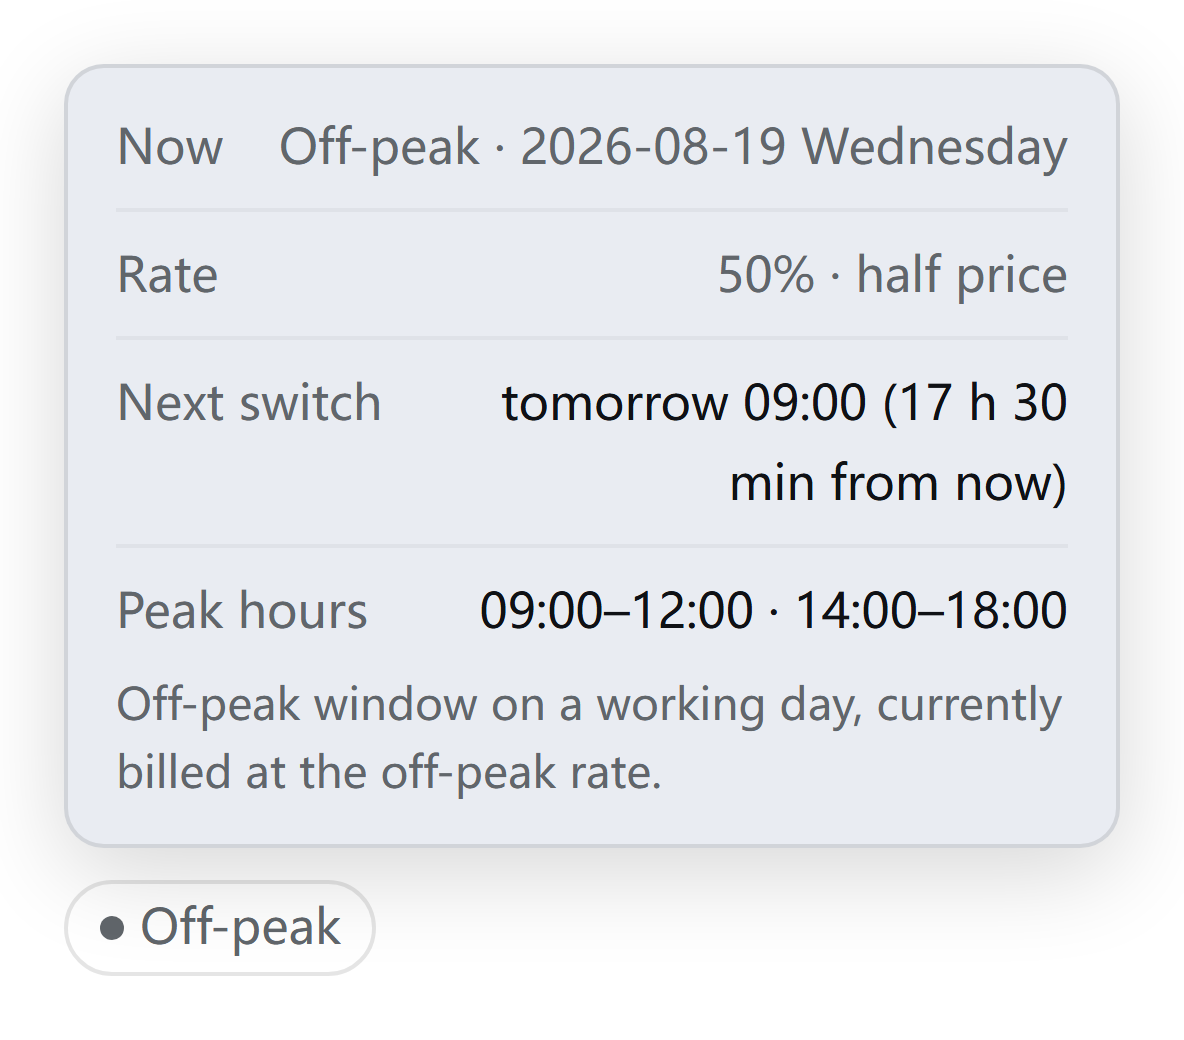
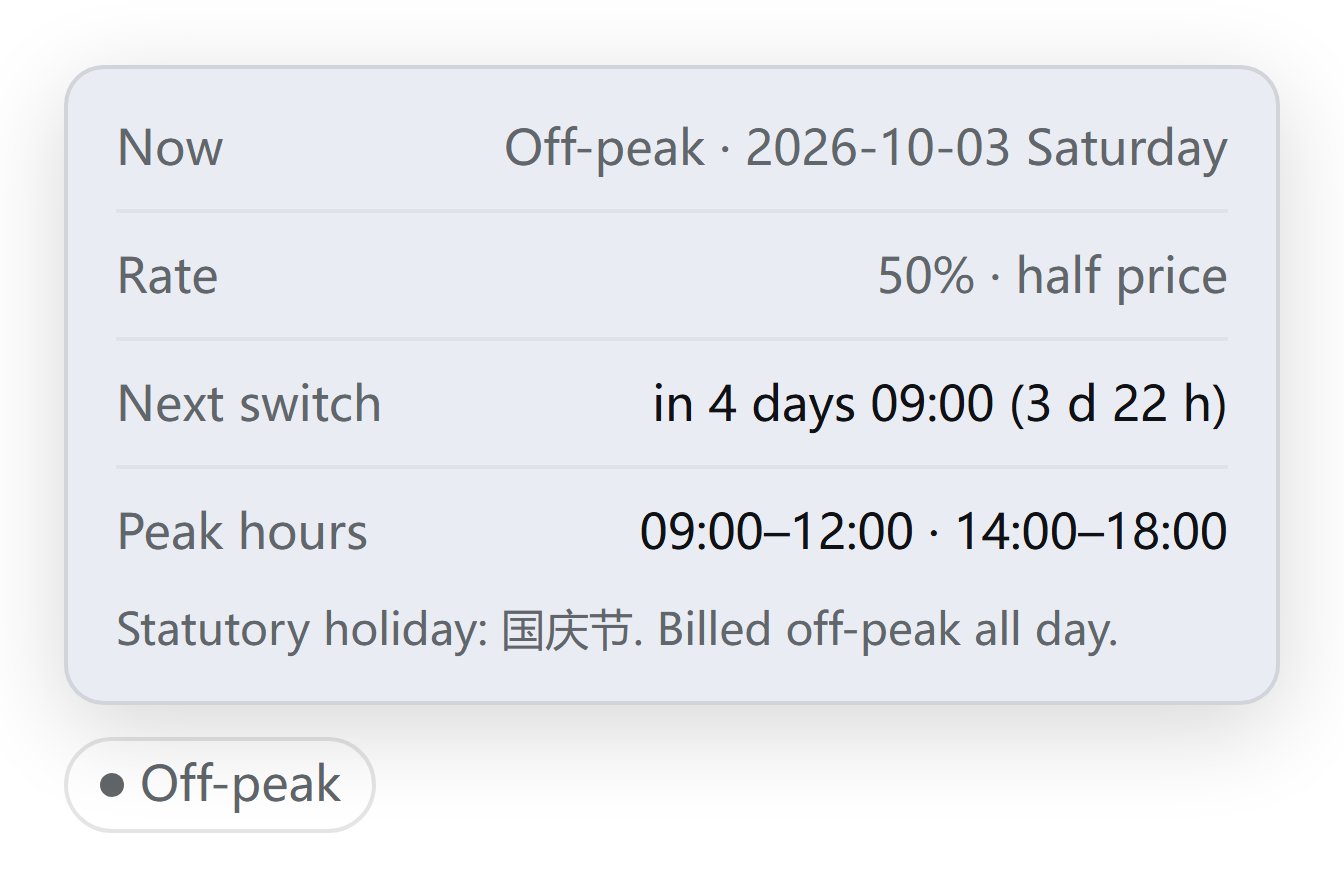
Keep the 下次切换 row on one line, and show the shots larger
The card's 下次切换 row wrapped onto two lines during 国庆节, when the gap to
the next peak runs to several days: `4 天后 09:00（94 小时 19 分钟后）` is wider
than the 264px card. The `）` ended up alone on the second line, which reads as
a broken layout rather than a long value.

Three changes, all aimed at that one row:

- `formatGap` switches to days past 24 hours (`3 天 22 小时`) and drops the
  minutes once days are on screen. Past a day the exact minute is noise on a
  card that already prints the absolute switch time.
- The trailing `后` / ` from now` is gone from the parenthetical; the unit
  already reads as a countdown.
- The card is 304px wide, and `.peak-badge-value` is `white-space: nowrap`, so
  a row can no longer break silently.

`demo/shoot.mjs` now measures every card row before it writes the PNG and exits
with an error if a row overflows or wraps. A wrapped row is invisible in the
image itself (the card just gets taller), so this cannot be checked by eye.

The off-peak shot is deliberately the widest case the card can print, so the
README shows the row that used to break. Display widths in the README went up
with the card: 300px chips, 320px cards. verify-policy.mjs is at 92 cases, and
the FLOOR tripwire moved with it.

diff --git a/client.js b/client.js
@@ -346,6 +346,15 @@ window.__ModuleLoader__.load({
     // at 6px a superellipse keeps visibly flat sides — the dot renders as a rounded
     // SQUARE, not a circle. Rendering both variants at 10x under Edge confirmed it;
     // engines without `corner-shape` ignore the declaration, so it costs nothing.
+    //
+    // The card is 304px wide rather than the 264px it started at, because the
+    // `下次切换` value has to stay on one line. Its longest form is
+    // `N 天后 09:00（M 天 N 小时）`: about 200px at 12px, plus the `下次切换` label
+    // (48px) and the 10px flex gap. At 264px that row wrapped, leaving a lone `）`
+    // on a second line, which reads as a broken layout rather than a long value.
+    // `verify-policy.mjs` guards the format; `demo/shoot.mjs` measures the row and
+    // refuses to write a screenshot when a row overflows, since a wrapped row is
+    // invisible in the PNG itself.
     const CSS = `
 .peak-badge-root { position: relative; display: inline-flex; }
 .peak-badge-chip {
@@ -364,7 +373,7 @@ window.__ModuleLoader__.load({
 .peak-badge-dot { width: 6px; height: 6px; border-radius: 50%; corner-shape: round; background: currentColor; flex: none; }
 .peak-badge-card {
   position: absolute; bottom: calc(100% + 8px); left: 0; z-index: 40;
-  width: 264px; box-sizing: border-box; padding: 10px 12px;
+  width: 304px; box-sizing: border-box; padding: 10px 12px;
   display: flex; flex-direction: column; gap: 6px;
   color: var(--dsw-alias-label-primary);
   background: var(--dsw-alias-bg-overlay);
@@ -375,7 +384,10 @@ window.__ModuleLoader__.load({
 .peak-badge-row { display: flex; align-items: baseline; justify-content: space-between; gap: 10px; font-size: 12px; }
 .peak-badge-row + .peak-badge-row { border-top: 1px solid var(--dsw-alias-border-l1); padding-top: 6px; }
 .peak-badge-key { color: var(--dsw-alias-label-secondary); flex: none; }
-.peak-badge-value { text-align: right; }
+/* A row is one line by contract: every value here is a short fact (a date, a
+   rate, a window), and the card is sized for the longest of them. Letting one
+   wrap puts an orphaned word on a second line and the row reads as a mistake. */
+.peak-badge-value { text-align: right; white-space: nowrap; }
 .peak-badge-value[data-tone="peak"] { color: var(--dsw-alias-state-warn-primary); }
 .peak-badge-value[data-tone="off"] { color: var(--dsw-alias-label-secondary); }
 .peak-badge-foot { font-size: 11px; line-height: 1.5; color: var(--dsw-alias-label-secondary); }
@@ -427,11 +439,11 @@ window.__ModuleLoader__.load({
       clockError: '无法读取本机时钟。',
       hour: '小时',
       minute: '分钟',
+      day: '天',
       today: '今天',
       tomorrow: '明天',
       dayAfter: '后天',
       daysAfter: '天后',
-      after: '后',
       weekday: ['周日', '周一', '周二', '周三', '周四', '周五', '周六'],
       rateStandard: '标准价',
       rateOffPeak: '5 折 · 半价',
@@ -450,11 +462,11 @@ window.__ModuleLoader__.load({
       clockError: 'The local clock could not be read.',
       hour: 'h',
       minute: 'min',
+      day: 'd',
       today: 'today',
       tomorrow: 'tomorrow',
       dayAfter: 'in 2 days',
       daysAfter: 'days from now',
-      after: ' from now',
       weekday: ['Sunday', 'Monday', 'Tuesday', 'Wednesday', 'Thursday', 'Friday', 'Saturday'],
       rateStandard: 'standard rate',
       rateOffPeak: '50% · half price',
@@ -525,13 +537,25 @@ window.__ModuleLoader__.load({
 
     const text = Object.assign({}, TEXT_ZH);
 
-    /** A minute count as `X 小时 Y 分钟` / `Y 分钟`. */
+    /**
+     * A minute count as `X 天 Y 小时` / `X 小时 Y 分钟` / `Y 分钟`.
+     *
+     * This is a size decision as much as a wording one. The `下次切换` row has to
+     * stay on one line: `94 小时 19 分钟` is both wide and harder to read than
+     * `3 天 22 小时`, and once the gap is a day or more the exact minute is noise
+     * on a card that already prints the absolute switch time.
+     */
     function formatGap(minutes) {
-      const hours = Math.floor(minutes / 60);
-      const rest = minutes % 60;
-      if (hours === 0) return `${rest} ${text.minute}`;
-      if (rest === 0) return `${hours} ${text.hour}`;
-      return `${hours} ${text.hour} ${rest} ${text.minute}`;
+      const total = Math.max(0, Math.ceil(minutes));
+      const days = Math.floor(total / 1440);
+      const hours = Math.floor((total % 1440) / 60);
+      const rest = total % 60;
+      const unit = (count, label) => `${count} ${label}`;
+      const parts = [];
+      if (days > 0) parts.push(unit(days, text.day));
+      if (hours > 0 || days > 0) parts.push(unit(hours, text.hour));
+      if (days === 0) parts.push(unit(rest, text.minute));
+      return parts.join(' ');
     }
 
     /** How many Beijing days ahead a peak window is, in words. */
@@ -652,8 +676,8 @@ window.__ModuleLoader__.load({
       const nextText = state.next === undefined
         ? (status === 'off' ? text.beyondHorizon : text.pending)
          : i18n.lang === 'en'
-          ? `${dayOffsetLabel(state.next.inDays)} ${state.next.at} (${formatGap(state.next.leftMinutes)}${text.after})`
-          : `${dayOffsetLabel(state.next.inDays)} ${state.next.at}（${formatGap(state.next.leftMinutes)}${text.after}）`;
+          ? `${dayOffsetLabel(state.next.inDays)} ${state.next.at} (${formatGap(state.next.leftMinutes)})`
+          : `${dayOffsetLabel(state.next.inDays)} ${state.next.at}（${formatGap(state.next.leftMinutes)}）`;
 
       return h('div', {
         className: 'peak-badge-root',

diff --git a/demo/index.html b/demo/index.html
@@ -168,16 +168,19 @@
     },
   }[en ? 'en' : 'zh'];
 
-  // 2026-08-19 is a Wednesday; 10:00 Beijing is peak, 15:30 is off-peak.
+  // 2026-08-19 is a Wednesday; 10:00 Beijing is peak, 15:30 is off-peak. The
+  // off-peak shot is deliberately the widest case the card can print: a
+  // 4-day gap during 国庆节, which is what used to wrap `下次切换` onto two
+  // lines. If the shot shows one line, that is the fix holding.
   const SAMPLE = peak
     ? { label: COPY.peak, status: 'peak', dateText: '2026-08-19', weekday: 3,
         rate: COPY.rateStandard,
-        next: en ? 'tomorrow 09:00 (17 h 30 min from now)' : '明天 09:00（17 小时 30 分钟后）',
+        next: en ? 'tomorrow 09:00 (17 h 30 min)' : '明天 09:00（17 小时 30 分钟）',
         reason: COPY.peakReason }
-    : { label: COPY.off, status: 'off', dateText: '2026-08-19', weekday: 3,
+    : { label: COPY.off, status: 'off', dateText: '2026-10-03', weekday: 6,
         rate: COPY.rateOffPeak,
-        next: en ? 'tomorrow 09:00 (17 h 30 min from now)' : '明天 09:00（17 小时 30 分钟后）',
-        reason: COPY.offReason };
+        next: en ? 'in 4 days 09:00 (3 d 22 h)' : '4 天后 09:00（3 天 22 小时）',
+        reason: en ? 'Statutory holiday: 国庆节. Billed off-peak all day.' : '法定节假日：国庆节，全天按空闲时段计价。' };
 
   const el = (tag, props, ...children) => {
     const node = document.createElement(tag);

diff --git a/README.md b/README.md
@@ -13,13 +13,14 @@
 
 | 空闲（默认） | 高峰 | 深色主题 |
 |---|---|---|
-| <img src="docs/chip.png" width="168" alt="空闲"> | <img src="docs/chip-peak.png" width="168" alt="高峰"> | <img src="docs/chip-dark.png" width="168" alt="深色"> |
+| <img src="docs/chip.png" width="300" alt="空闲"> | <img src="docs/chip-peak.png" width="300" alt="高峰"> | <img src="docs/chip-dark.png" width="300" alt="深色"> |
 
-点开的卡片，三个变体：中文空闲、中文高峰、英文空闲：
+点开的卡片，三个变体：中文空闲、中文高峰、英文空闲。中文空闲那张是**故意挑的最长的一种**：
+国庆节里离下个高峰还有 4 天，`下次切换` 这一行是整张卡片能印出的最宽的值。
 
 | 中文 · 空闲 | 中文 · 高峰 | English · off-peak |
 |---|---|---|
-| <img src="docs/card-off.png" width="290" alt="卡片：中文空闲"> | <img src="docs/card-peak.png" width="290" alt="卡片：中文高峰"> | <img src="docs/card-en.png" width="290" alt="卡片：英文"> |
+| <img src="docs/card-off.png" width="320" alt="卡片：中文空闲"> | <img src="docs/card-peak.png" width="320" alt="卡片：中文高峰"> | <img src="docs/card-en.png" width="320" alt="卡片：英文"> |
 
 ## 计费规则
 
@@ -115,12 +116,12 @@ TZ=Asia/Shanghai        node verify-policy.mjs
 TZ=Pacific/Kiritimati   node verify-policy.mjs
 ```
 
-四个时区都是 88 条全过。把 `peakState` 里的 `getUTC*` 换成 `get*`（一个很自然的
+四个时区都是 92 条全过。把 `peakState` 里的 `getUTC*` 换成 `get*`（一个很自然的
 「简化」），这套断言立刻挂。验证过，不是推测。
 
 退出码按本工作区的约定分三种：`0` 全过，`1` 有断言挂了（**代码错了**），
-`2` 根本没跑起来（与代码无关）。加了 `--dump` 会把抠出来的那段代码打出来。
-最后还压了一条底线：跑过的条数少于预期（现在是 88）也一样按 1 退出，
+`2` 根本没跑起来（与代码无关）。加了 `--dump` 会把抠出来的那段代码印出来。
+最后还压了一条底线：跑过的条数少于预期（现在是 92）也一样按 1 退出，
 否则「某个小节整段没跑」会打印成「0 passed, 0 failed」然后安安静静地返回 0。
 
 > 关于这套断言的可信度：写它的时候，我**手算的期望值错了六次，机器每次都对**。
@@ -205,7 +206,7 @@ TZ=Pacific/Kiritimati   node verify-policy.mjs
    会抛 `INACTIVE_EFFECT`，而卸载和销毁本来就是会撞车的。
    别改用全局 `setTimeout`：动态客户端包里它是会抛错的陷阱（`client.js:9-11` 记的就是
    这条），而且即使在这里能用，它也不跟页面生命周期绑定，卸载后会继续跑。同理，语言切换
-   靠的是 `locale.subscribe`（`client.js:588-606`），不是重新加载。
+   靠的是 `locale.subscribe`（`client.js:612-634`），不是重新加载。
 
 2. **周几要按「那一刻」算，不能按「那一天」算。** 北京时间的周五 18:00 之后就是谷时，
    一直谷到周一早上；如果周几取自当天日期，周五晚上就会被算成工作日峰时。
@@ -301,7 +302,13 @@ node demo/shoot.mjs
 `demo/shoot.mjs` 用无头 Edge 打开它，按元素裁剪，写进 `docs/`。
 
 胶囊只有 52 css px 宽，所以它的截图按 6 倍像素渲染（卡片 4 倍），放进 README 里再放大也
-不糊。每张图的倍率写在 `demo/shoot.mjs` 的 `SHOTS` 里。
+不糊。每张图的倍率写在 `demo/shoot.mjs` 的 `SHOTS` 里。图片在 README 里显示成
+300 px（胶囊）和 320 px（卡片），这两个数字也是写在 `<img>` 标签上的：Markdown 的
+`![]()` 语法带不了 `width`，所以这里用的是 HTML。
+
+`demo/shoot.mjs` 收工前还会量一次卡片的每一行：哪一行溢出了，或者被迫折成了两行，
+它就**报错退出，不写图**。折行在 PNG 上是看不出来的（卡片只是变高一点，什么都不像坏了），
+所以这事只能量，不能靠眼睛看。
 
 几个已经踩过的坑，改这个脚本之前值得知道：
 
